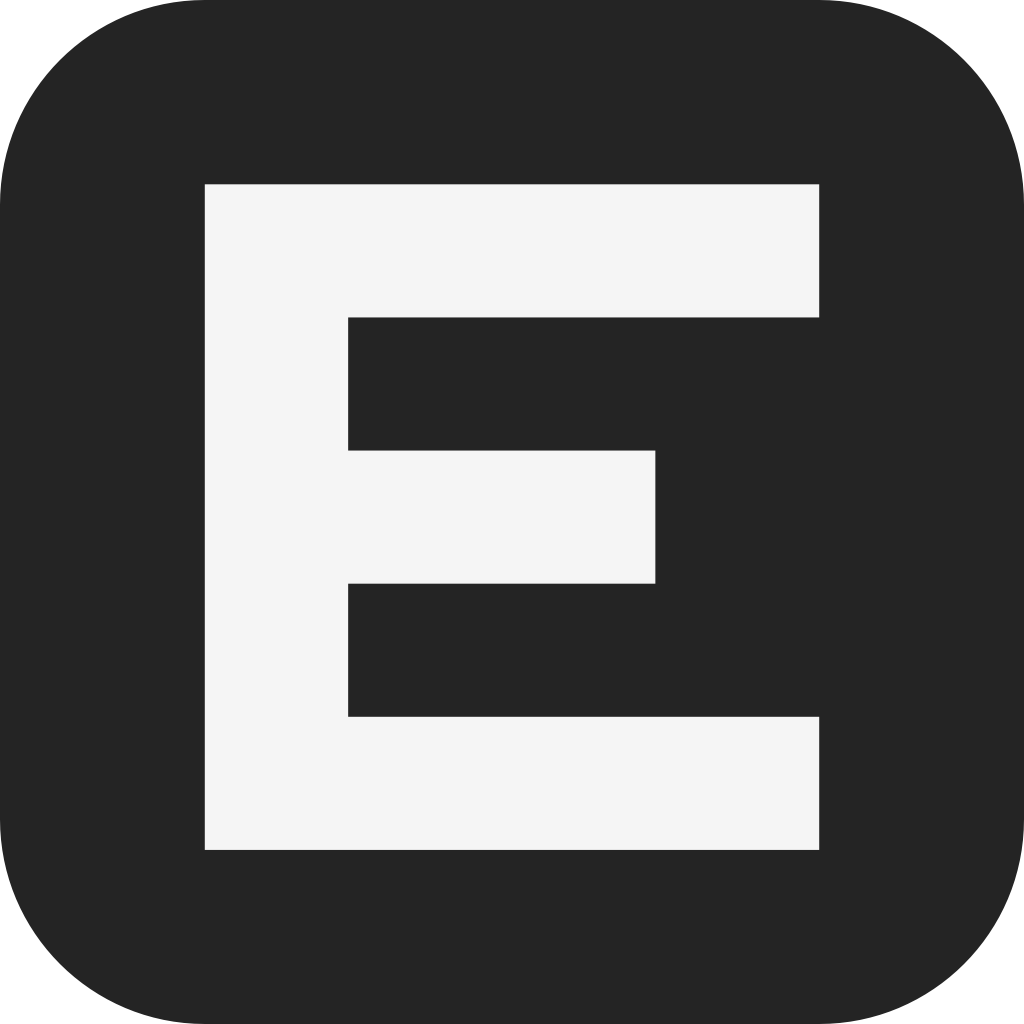
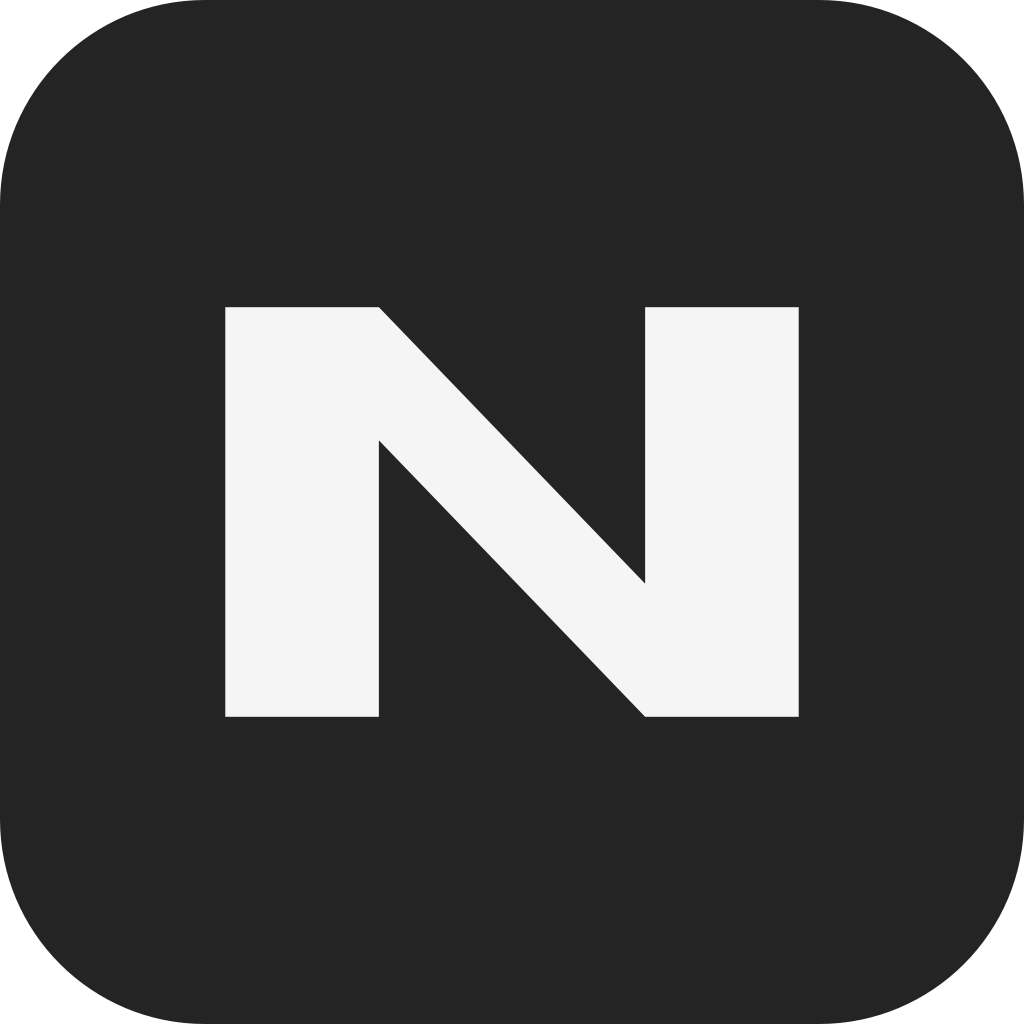
fix(branding): ship selected N monogram [release]

Changed region(s): [[0.1875, 0.1562, 0.8125, 0.8438]]

diff --git a/tests/test_brand_assets.py b/tests/test_brand_assets.py
@@ -11,12 +11,19 @@ from PySide6.QtWidgets import QApplication
 ROOT = Path(__file__).resolve().parents[1]
 
 
-def test_stage_e_svg_masters_render_and_windows_icon_has_favicon_sizes():
+def test_n_monogram_svg_masters_render_and_windows_icon_has_favicon_sizes():
     app = QApplication.instance() or QApplication([])
     masters = ROOT / "assets" / "brand"
     svg_files = list(masters.glob("*.svg"))
     assert len(svg_files) == 4
     assert all(QSvgRenderer(str(path)).isValid() for path in svg_files)
+    assert all(
+        'd="M22 30h15l26 27V30h15v40H63L37 43v27H22z"'
+        in path.read_text(encoding="utf-8")
+        for path in svg_files
+    )
+    app_icon = ROOT / "src" / "novel_workflow" / "resources" / "palantir_novel.svg"
+    assert app_icon.read_bytes() == (masters / "palantir_novel_app_dark.svg").read_bytes()
 
     icon = QIcon(str(ROOT / "assets" / "palantir_novel.ico"))
     assert not icon.isNull()

diff --git a/README.md b/README.md
@@ -2,7 +2,7 @@
 
 ## Logo และ App Icon
 
-โปรแกรมใช้แนวคิด **Stage E**: แกนเดียวกับแถบสามระดับ สื่อถึงขั้นตอนการทำงานของนิยาย ใช้รูปทรงสีเดียวเพื่อให้อ่านออกเมื่อย่อเป็น favicon และแสดงชัดทั้งพื้นหลังอ่อนและเข้ม
+โปรแกรมใช้สัญลักษณ์ **N Monogram** ตามแบบที่เลือก: ตัว N ทรงเรขาคณิตสีเดียวบนพื้นเรียบ ออกแบบให้จำง่ายและยังอ่านออกเมื่อย่อเป็น favicon พร้อมเวอร์ชันสำหรับพื้นหลังอ่อนและเข้ม
 
 - SVG ต้นฉบับแบบพื้นหลังโปร่งใสและแบบ App Icon อยู่ใน `assets/brand/`
 - PNG สำหรับ favicon 16, 32 และ 48 px, desktop/mobile 256, 512 และ 1024 px อยู่ใน `assets/brand/exports/`

diff --git a/CHANGELOG.md b/CHANGELOG.md
@@ -2,6 +2,10 @@
 
 All notable changes to Palantir: Novel are documented here.
 
+## 3.3.6 - 2026-10-04
+
+- Replace the Stage E mark with the selected N monogram across the app icon, installer, SVG masters, favicon, and desktop/mobile exports.
+
 ## 3.3.5 - 2026-10-04
 
 - Save editor documents by writing a complete temporary file and atomically replacing the original, preserving the last saved copy if Windows blocks the replacement.
